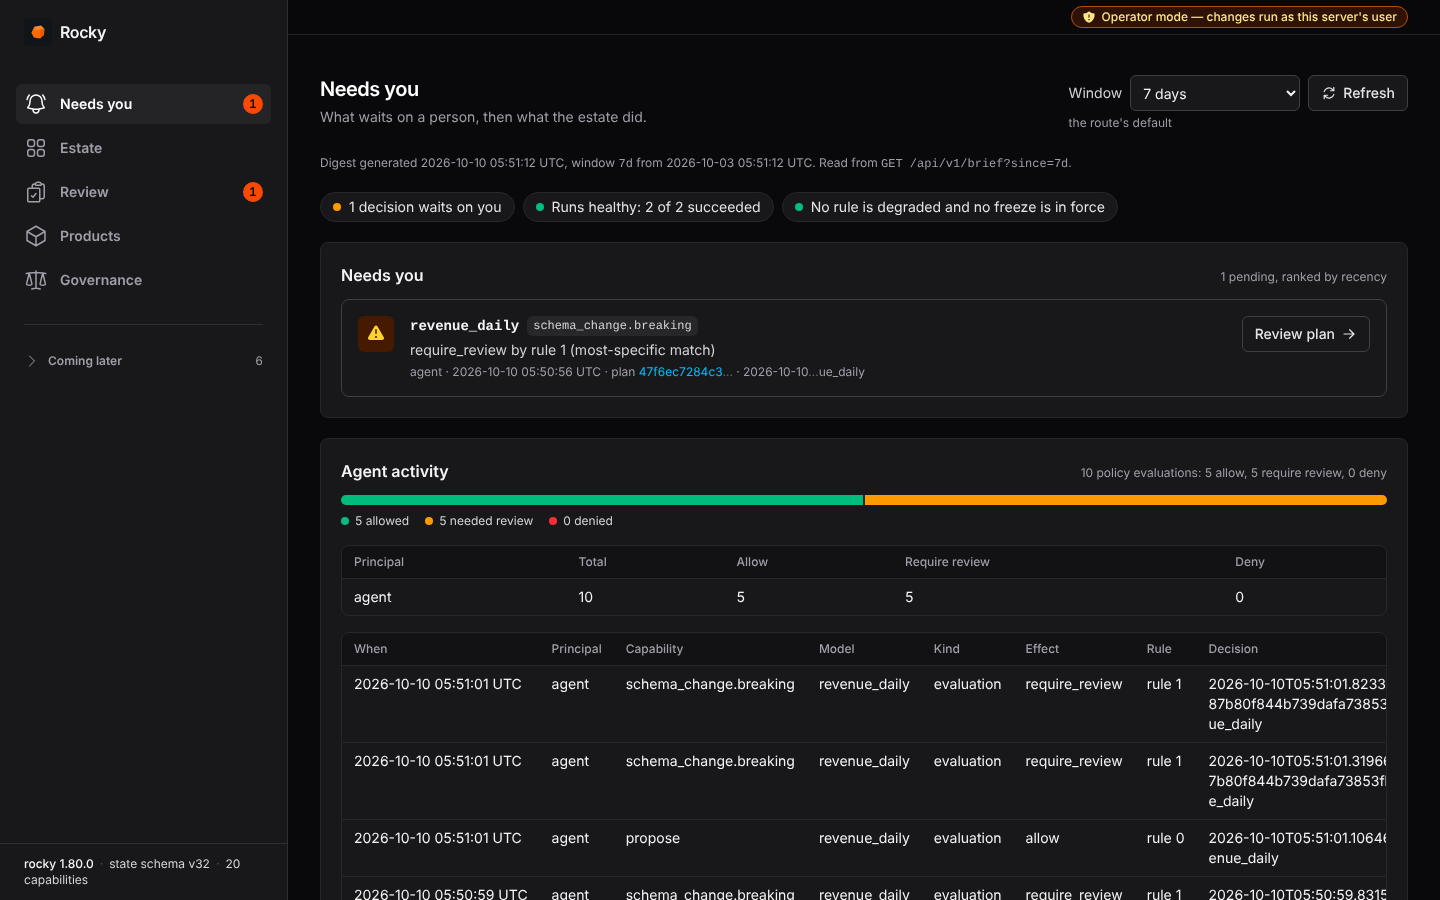
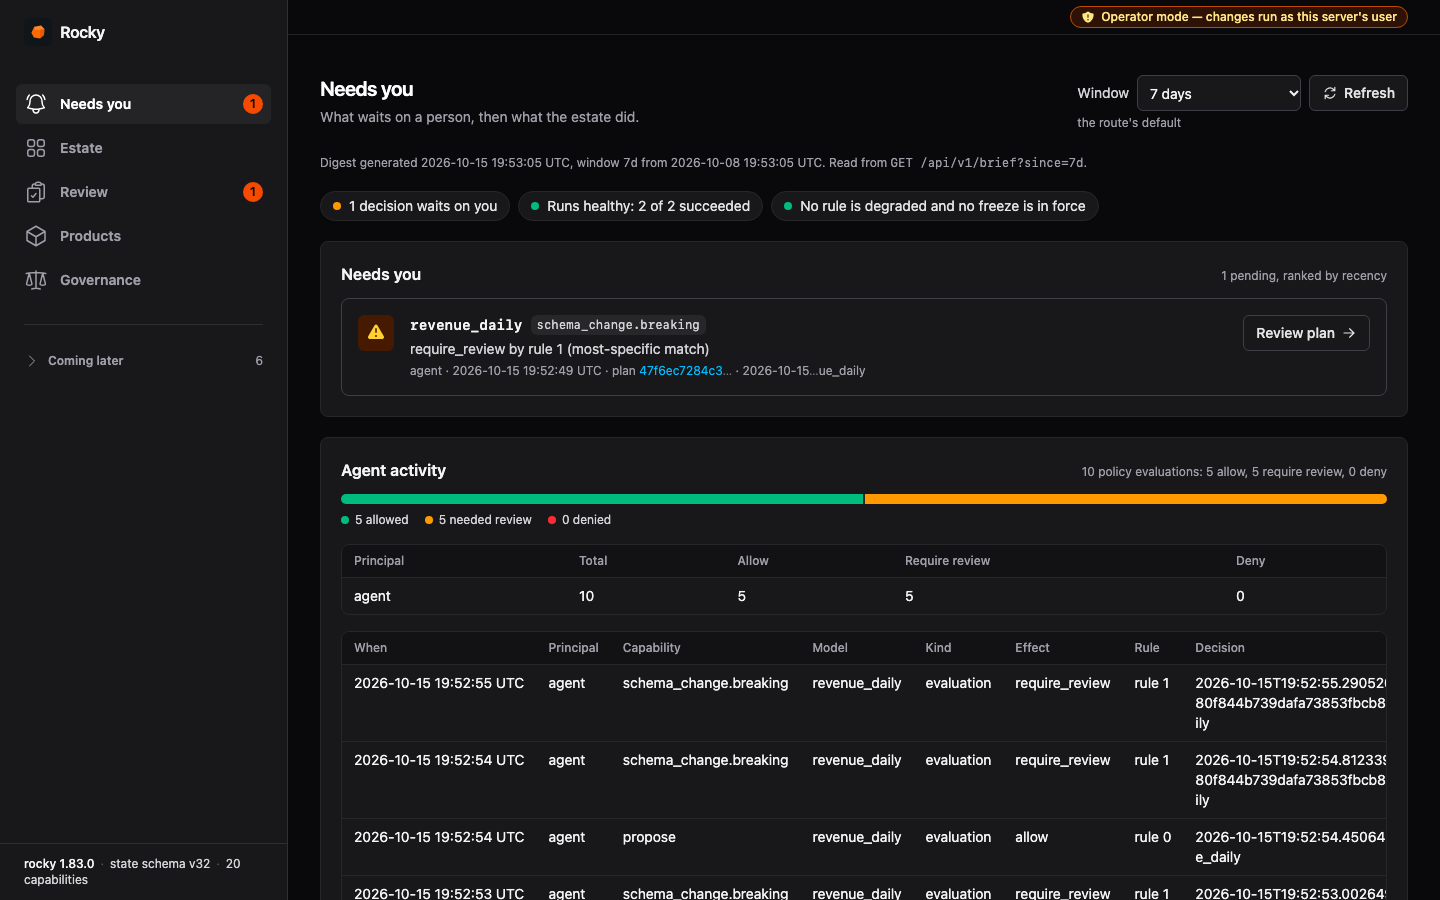
docs: browser UI screenshots for engine 1.83.0 (#2392)
Retakes the browser UI screenshots from the released engine 1.83.0. The estate shot shows the new Test and CI buttons; its alt text is updated.

diff --git a/docs/src/content/docs/guides/browser-ui.md b/docs/src/content/docs/guides/browser-ui.md
@@ -93,7 +93,7 @@ A card says so when its data was not available. A signal the ledger does not hol
 
 The printed address opens Estate, even though Needs you is first in the sidebar. It shows the project as the engine compiled it. The strip at the top names the config file, the pipelines and adapters, the compiled models with their diagnostics, and the newest run.
 
-![The estate screen for the playground project: a project strip with one transformation pipeline, one DuckDB adapter and three compiled models, the newest run, Plan, Run and Refresh buttons, and a DAG of raw_orders, customer_orders and revenue_summary](/ui-estate.png)
+![The estate screen for the playground project: a project strip with one transformation pipeline, one DuckDB adapter and three compiled models, the newest run, Plan (disabled, because the project has no replication pipeline), Run, Test, CI and Refresh buttons, and a DAG of raw_orders, customer_orders and revenue_summary](/ui-estate.png)
 
 Below the project strip, the DAG draws every model and the edges between them. Click a model to open its detail: its columns (with their types, where the compiler inferred them) and its compiled SQL. The server caps the SQL at 256 KiB and says so when it cuts it. Further down, the estate lists recent runs and the pipelines that declare a `[schedule]`. The Schedule panel also shows the webhook demands waiting in the spool, which no tick has claimed yet. If the server cannot read the spool, the panel shows that error instead of a count.
 
